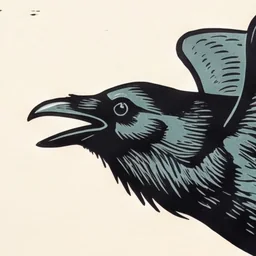
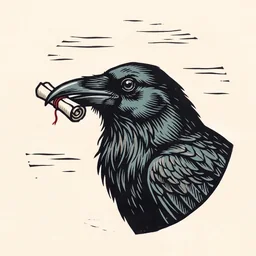
Ravens: the feedback badge becomes Huginn with a letter, day, dusk and night (task 35)
letter-2 with dusk-2 and night-2, chosen by the maintainer. Sources at 1024 px and the prompts in
images/ravens/sources/; dusk and night relit with a light written for each hour.

diff --git a/images/ravens/README.md b/images/ravens/README.md
@@ -16,6 +16,9 @@ here; the Commons page is the source). Credit lines: "John Gerrard Keulemans, 18
 
 `huginn-fb-{day,dusk,night}-{128,256}.{jpg,webp}`: Huginn's round badge for the feedback button in the corner of every
 page, one picture per light (the page picks it by the sun in the reader's time zone). Made by edda-site
-`tools/make_feedback_raven.py`; the record is `feedback` in index.json. For now cropped from the Mímir portrait of
-Huginn (images/portraits/huginn.jpg and its @dusk and @night relights), head and neck, mirrored to face into the page.
+`tools/make_feedback_raven.py --from sources/huginn-letter.jpg sources/huginn-letter@dusk.jpg sources/huginn-letter@night.jpg`;
+the record is `feedback` in index.json. Huginn holding a rolled letter tied with red thread ("send a message"), drawn in
+the hand of the Mímir portrait (images/portraits/huginn.jpg as the reference); dusk and night are relights of the day
+picture with a light written for each hour (a generic "change the light" only tinted the paper). Sources at 1024 px and
+the prompts: `sources/` (2026-11-15; until then a crop of the Mímir portrait).
 Credit as for the plates and portraits: (c) 2026 Grigory Sapunov, CC BY 4.0 (made with gemini-nano-banana-2.1).
